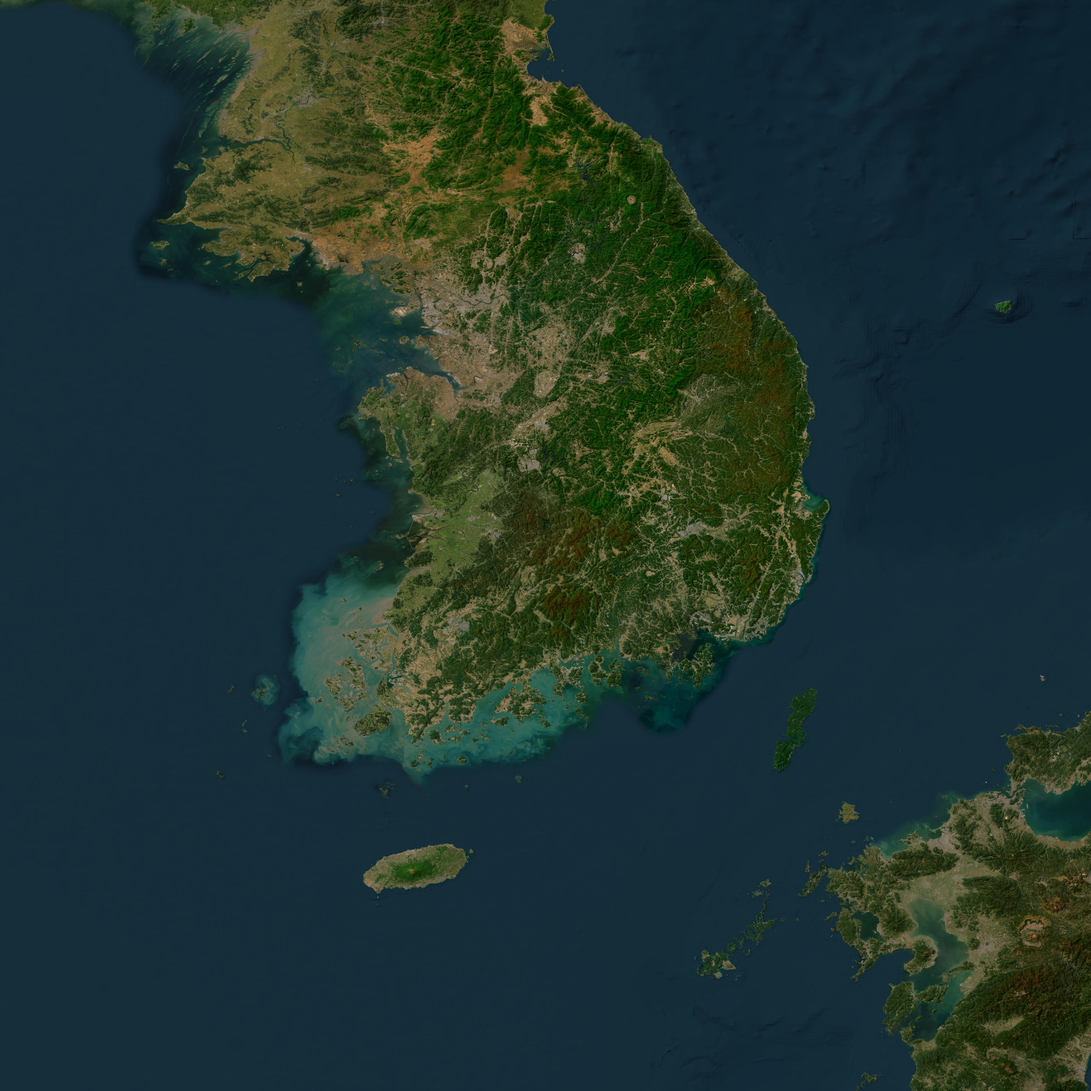
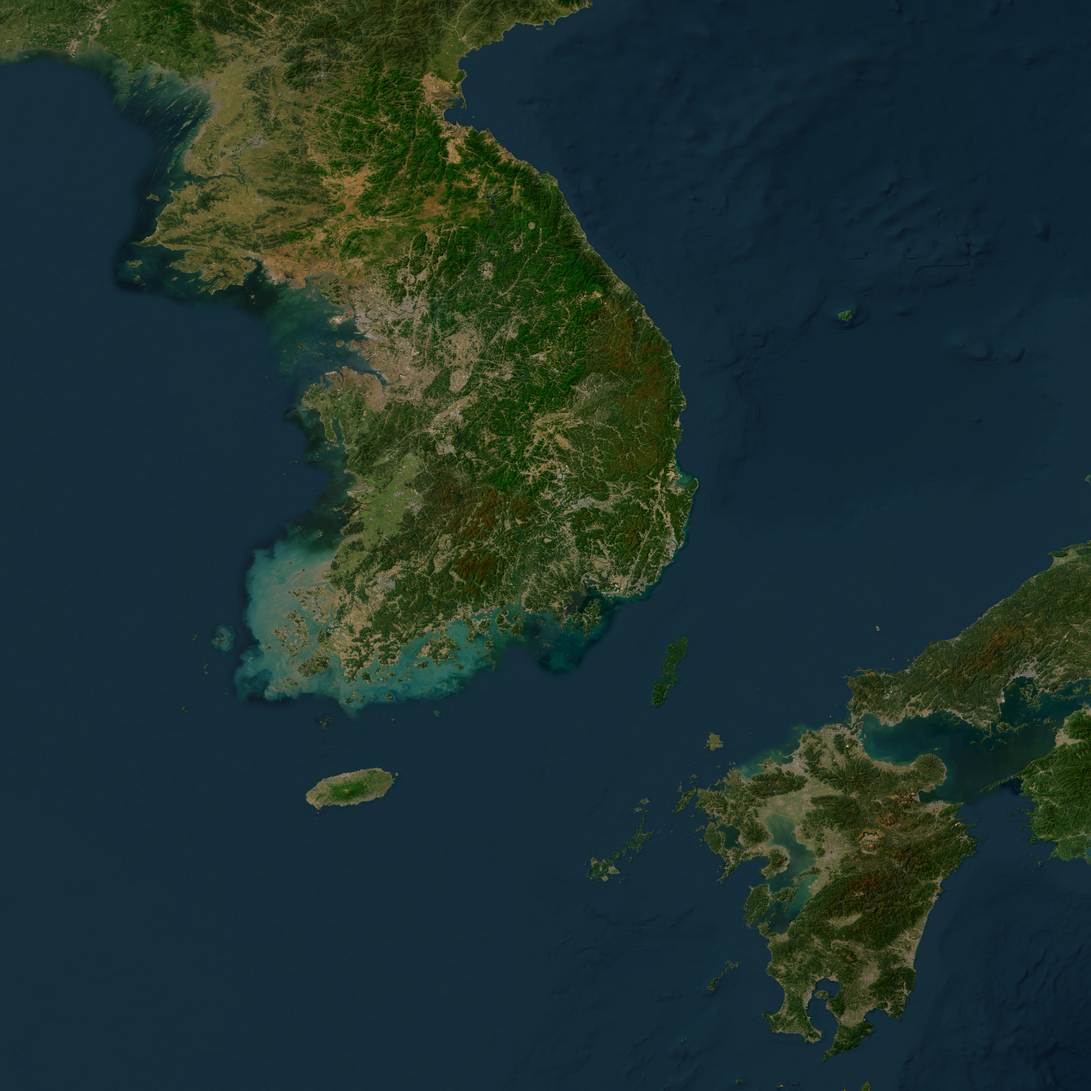
style: manually calibrate map marker positions to match user reference image

diff --git a/components/onboarding/onboarding-flow.tsx b/components/onboarding/onboarding-flow.tsx
@@ -16,8 +16,8 @@ const geoToPercent = (lon: number, lat: number) => {
     const latToY = (latitude: number) => Math.log(Math.tan((Math.PI / 4) + (latitude * Math.PI / 180) / 2));
 
     const lonMin = 123.5;
-    const lonMax = 131.5;
-    const latMin = 32.0; // South Korea bounding box (Zoomed out)
+    const lonMax = 133.0; // Extend past Ulleungdo/Dokdo
+    const latMin = 31.5; // Extend further south
     const latMax = 39.5;
 
     const yMin = latToY(latMin);
@@ -33,23 +33,57 @@ const geoToPercent = (lon: number, lat: number) => {
     const xOffset = 0.5; // slight manual tune left
     const yOffset = -0.5; // slight manual tune up
 
-    return {
-        x: x + xOffset,
-        y: y + yOffset,
-    };
+    return { x: x + xOffset, y: y + yOffset };
 };
 
 // ─── Cities ──────────────────────────────────────────────────────────────────
+// Offsets are explicitly added to manually match the user's reference visual layout
+// which disperses markers intentionally rather than using strict geographic centers.
 const regions = [
-    { id: "seoul", name: "Seoul", sub: "Capital City", emoji: "🏙", available: 24, theme: "Medical, Shopping, Culture", ...geoToPercent(126.98, 37.57) },
-    { id: "incheon", name: "Incheon", sub: "Gateway City", emoji: "✈", available: 8, theme: "Airport, K-Pop, Chinatown", ...geoToPercent(126.70, 37.45) },
-    { id: "gyeonggi", name: "Gyeonggi", sub: "Metropolitan Area", emoji: "🏯", available: 12, theme: "Suwon, Nami Island, DMZ", ...geoToPercent(127.05, 37.27) },
-    { id: "gangwon", name: "Gangwon", sub: "Nature & Snow", emoji: "⛷", available: 6, theme: "Ski Resorts, East Sea, Mountains", ...geoToPercent(127.73, 37.88) },
-    { id: "daejeon", name: "Daejeon", sub: "Science City", emoji: "🔬", available: 7, theme: "EXPO Science Park, Gyeryongsan, Spa", ...geoToPercent(127.38, 36.35) },
-    { id: "gwangju", name: "Gwangju", sub: "Culture Capital", emoji: "🎨", available: 5, theme: "Art Biennale, Mudeungsan, Local Cuisine", ...geoToPercent(126.85, 35.16) },
-    { id: "busan", name: "Busan", sub: "Ocean City", emoji: "🌊", available: 15, theme: "Haeundae Beach, Seafood, Night Market", ...geoToPercent(129.03, 35.10) },
-    { id: "gyeongju", name: "Gyeongju", sub: "Ancient Capital", emoji: "🏺", available: 8, theme: "Bulguksa, Cheomseongdae, Royal Tombs", ...geoToPercent(129.21, 35.84) },
-    { id: "jeju", name: "Jeju", sub: "Island Paradise", emoji: "🌺", available: 10, theme: "Beaches, Hallasan, Canola Flower Fields", ...geoToPercent(126.53, 33.49) },
+    {
+        id: "seoul", name: "Seoul", sub: "Capital City", emoji: "🏙", available: 24, theme: "Medical, Shopping, Culture",
+        x: geoToPercent(126.98, 37.57).x + 2, y: geoToPercent(126.98, 37.57).y - 2
+    },
+
+    {
+        id: "incheon", name: "Incheon", sub: "Gateway City", emoji: "✈", available: 8, theme: "Airport, K-Pop, Chinatown",
+        x: geoToPercent(126.70, 37.45).x - 4, y: geoToPercent(126.70, 37.45).y + 2
+    },
+
+    {
+        id: "gyeonggi", name: "Gyeonggi", sub: "Metropolitan Area", emoji: "🏯", available: 12, theme: "Suwon, Nami Island, DMZ",
+        x: geoToPercent(127.05, 37.27).x + 2, y: geoToPercent(127.05, 37.27).y + 5
+    },
+
+    {
+        id: "gangwon", name: "Gangwon", sub: "Nature & Snow", emoji: "⛷", available: 6, theme: "Ski Resorts, East Sea, Mountains",
+        x: geoToPercent(127.73, 37.88).x + 4, y: geoToPercent(127.73, 37.88).y - 6
+    },
+
+    {
+        id: "daejeon", name: "Daejeon", sub: "Science City", emoji: "🔬", available: 7, theme: "EXPO Science Park, Gyeryongsan, Spa",
+        x: geoToPercent(127.38, 36.35).x + 5, y: geoToPercent(127.38, 36.35).y + 3
+    },
+
+    {
+        id: "gwangju", name: "Gwangju", sub: "Culture Capital", emoji: "🎨", available: 5, theme: "Art Biennale, Mudeungsan, Local Cuisine",
+        x: geoToPercent(126.85, 35.16).x - 5, y: geoToPercent(126.85, 35.16).y - 1
+    },
+
+    {
+        id: "busan", name: "Busan", sub: "Ocean City", emoji: "🌊", available: 15, theme: "Haeundae Beach, Seafood, Night Market",
+        x: geoToPercent(129.03, 35.10).x - 9, y: geoToPercent(129.03, 35.10).y + 3
+    },
+
+    {
+        id: "gyeongju", name: "Gyeongju", sub: "Ancient Capital", emoji: "🏺", available: 8, theme: "Bulguksa, Cheomseongdae, Royal Tombs",
+        x: geoToPercent(129.21, 35.84).x + 6, y: geoToPercent(129.21, 35.84).y - 1.5
+    },
+
+    {
+        id: "jeju", name: "Jeju", sub: "Island Paradise", emoji: "🌺", available: 10, theme: "Beaches, Hallasan, Canola Flower Fields",
+        x: geoToPercent(126.53, 33.49).x + 5, y: geoToPercent(126.53, 33.49).y + 2.5
+    },
 ]
 
 const themes = [
